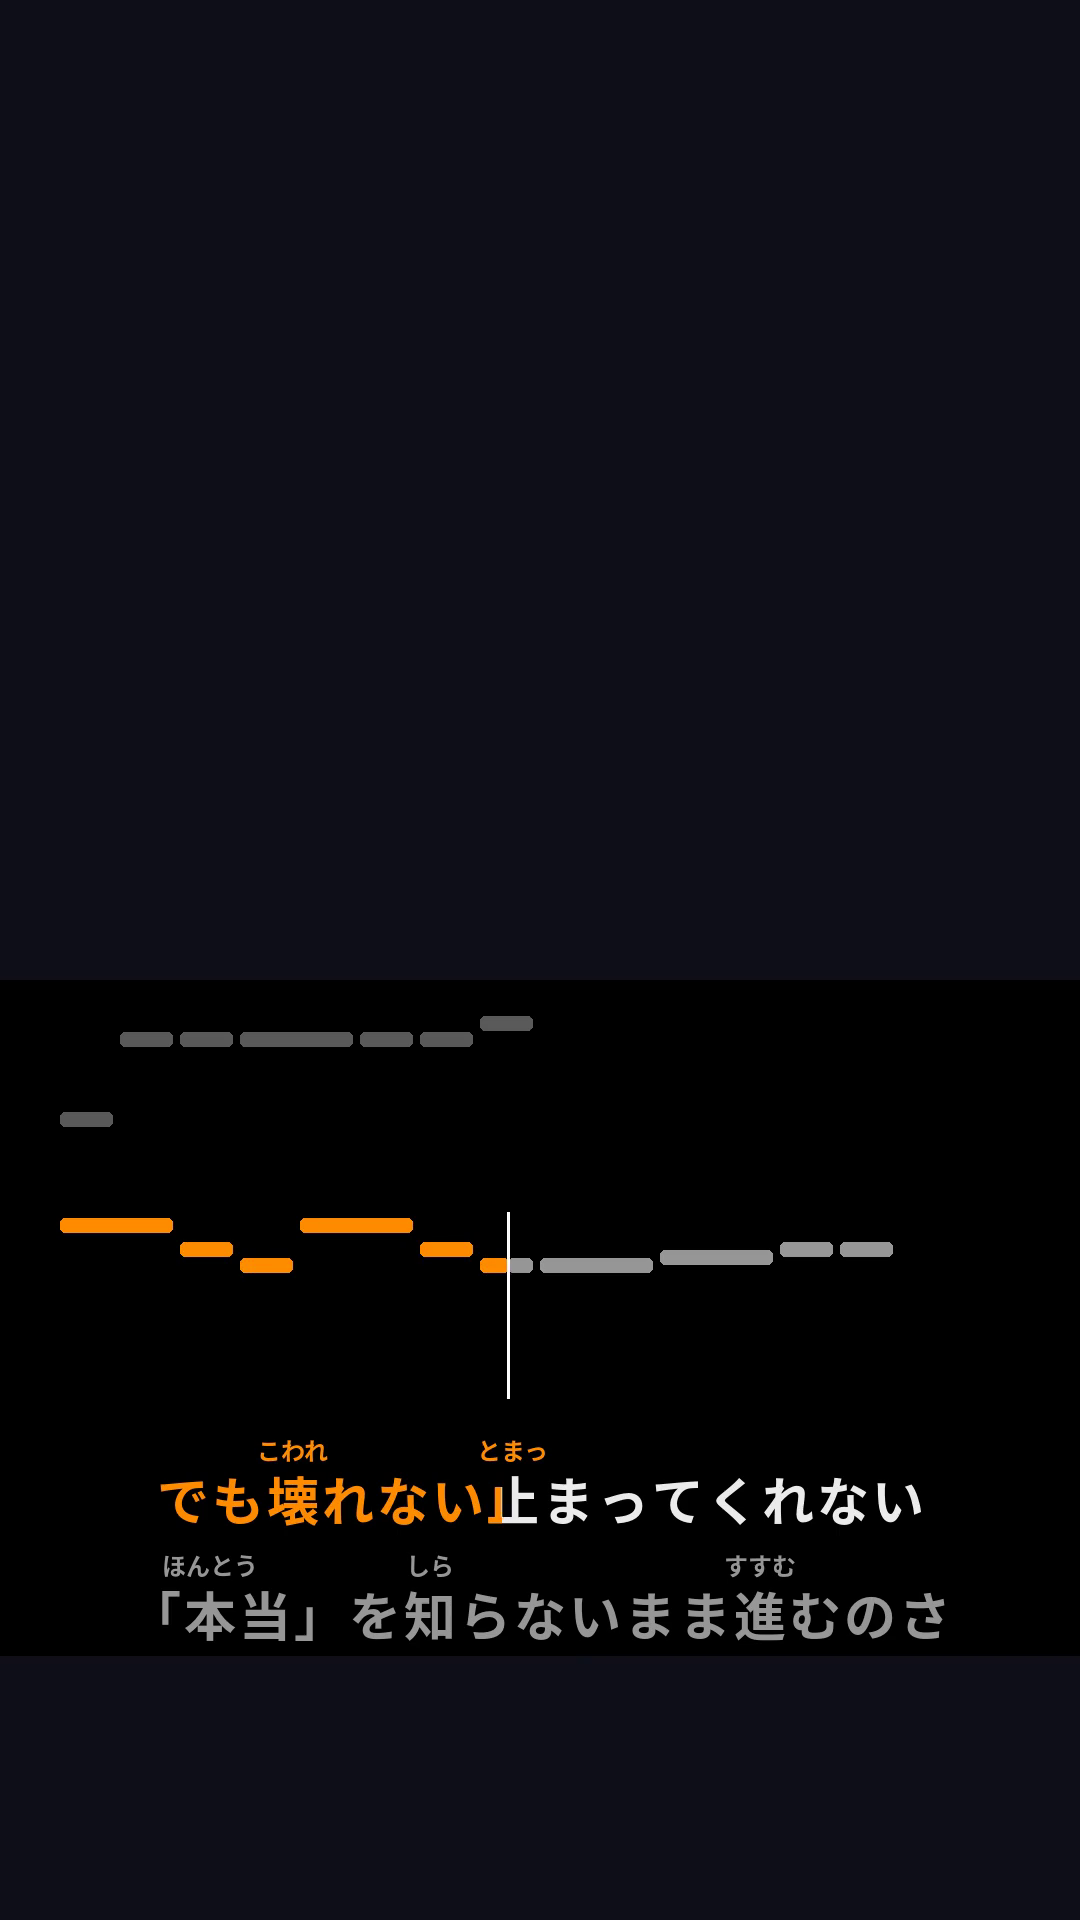
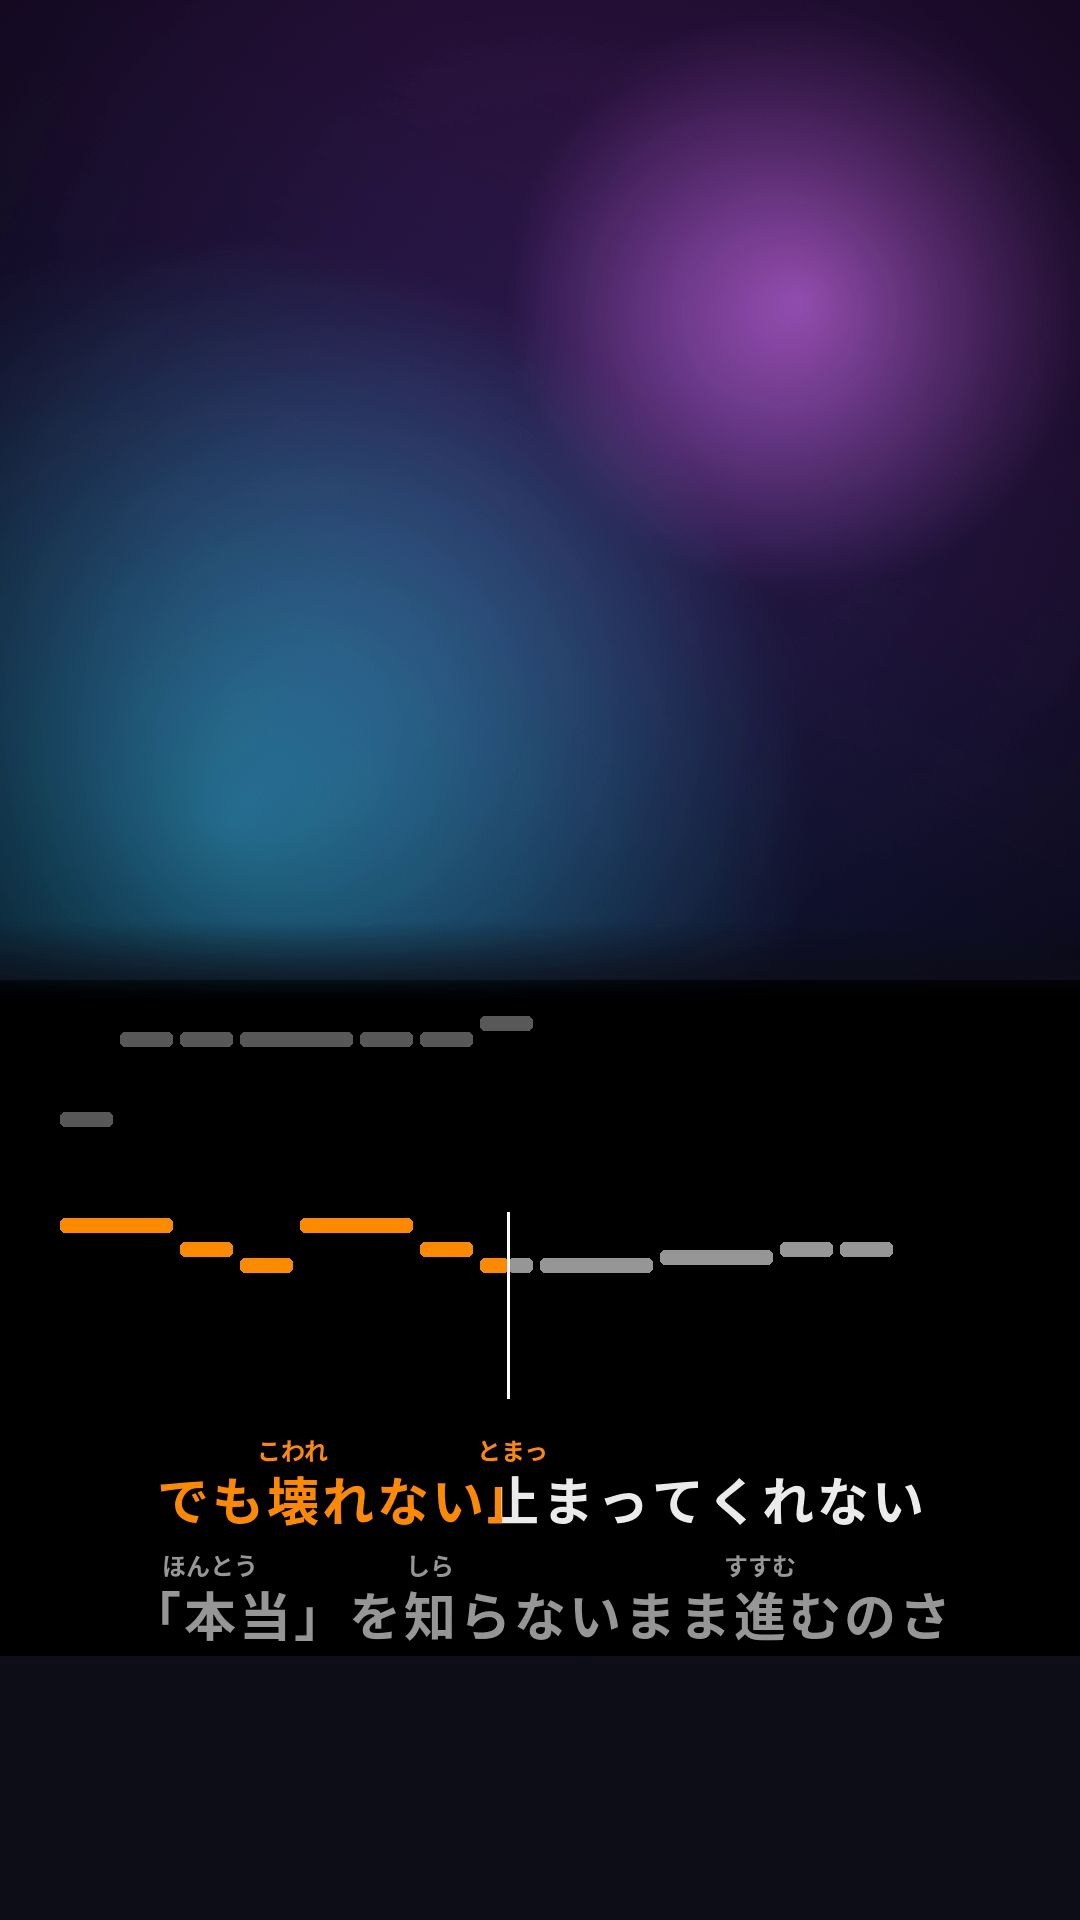
docs: mark GUI experimental; fill portrait top with original abstract backdrop
- GUI section: relabel "(實驗性)" — implemented + gradio installed and
  runnable locally, but not verified end-to-end in a clean env; CLI/Snakemake
  is the primary entry. Also correct bg modes to the two the GUI actually has
  (original video / black).
- portrait 9:16: the byoushin render is pure-bg (no MV), leaving the top ~50%
  empty and the framing off. Composite an original ffmpeg-generated abstract
  night/bokeh backdrop into the MV region (copyright-free; real users supply
  their own MV/still). Bars + lyrics untouched.

diff --git a/README.md b/README.md
@@ -9,7 +9,7 @@
 
 ## 成果
 
-> 以下截圖一律用**純底**版面展示。pipeline 也支援把畫面疊在原 MV／專輯封面／靜態圖上，但那是版權衍生、僅限個人練唱自用，故不放進公開 repo。
+> 截圖以**純底**為主；直式上半的背景是**原創抽象示意圖**（非版權素材）。pipeline 也支援把畫面疊在原 MV／專輯封面／靜態圖上，但那是版權衍生、僅限個人練唱自用，故不放進公開 repo。
 
 <img src="figures/v14_main.png" width="100%" alt="canonical v14 純底畫面：扁平音高方塊（黃=已唱、白=未到）+ songinfo HUD（♪音符數、音高傾向箭頭、音域/調性 gauge）+ 逐字歌詞 + 振假名" />
 
@@ -40,7 +40,7 @@
   </tr>
 </table>
 
-<p align="center"><sub>直式同為 canonical v14（<code>/render-portrait</code>）；上方留白可疊原 MV／靜態圖，此處示意純底。</sub></p>
+<p align="center"><sub>直式同為 canonical v14（<code>/render-portrait</code>）；上半背景為<strong>原創抽象示意圖</strong>，實際由使用者自備 MV／靜態圖。</sub></p>
 
 <img src="figures/tuki-zero_melody.png" width="100%" alt="melody.mid 音符散佈圖：626 顆音符、音高 49–79" />
 <p align="center"><sub>M2 抽出的 melody.mid（626 顆音符、音高 49–79）</sub></p>
@@ -128,14 +128,16 @@ bash scripts/setup.sh
 - **Lyric Video 背景**：來源已燒入歌詞時加 `--no-video`，自備 `background.png` 避免撞圖
 - **已有樂譜 MIDI**：`karaoke-jp score-melody ... --score-midi score.mid`，把樂譜當 pitch ground truth、audio 只決定 timing
 
-### GUI
+### GUI（實驗性）
+
+> 本機 Gradio 包裝，已實作（`karaoke-jp gui`）但**尚未在乾淨環境完整驗證**；主要入口仍是上面的 CLI / Snakemake。它是本機程式、**非 hosted 服務**。
 
 ```bash
 ~/venvs/karaoke-jp/bin/pip install -e '.[batch,gui]'
 ~/venvs/karaoke-jp/bin/karaoke-jp gui --host 127.0.0.1 --port 7860
 ```
 
-本機 Gradio 介面包裝同一條 pipeline：輸入 YouTube URL 或上傳 mp4、貼歌詞、拉人聲混音比例、選背景模式。預設只綁 `127.0.0.1`，不開 share。
+輸入 YouTube URL 或上傳 mp4、貼歌詞、拉人聲混音比例、選背景（原影片／純黑）。預設只綁 `127.0.0.1`、不開 share。
 
 ---
 
